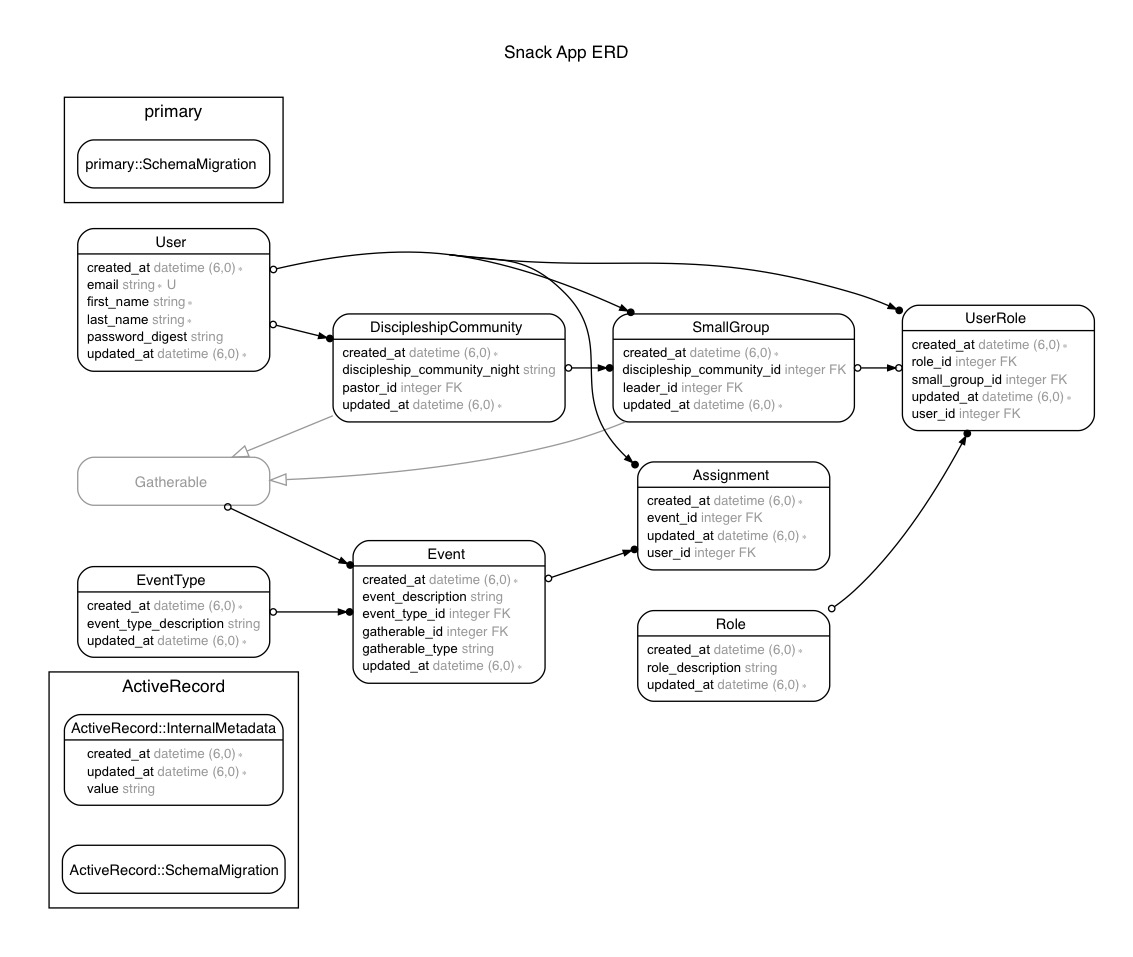
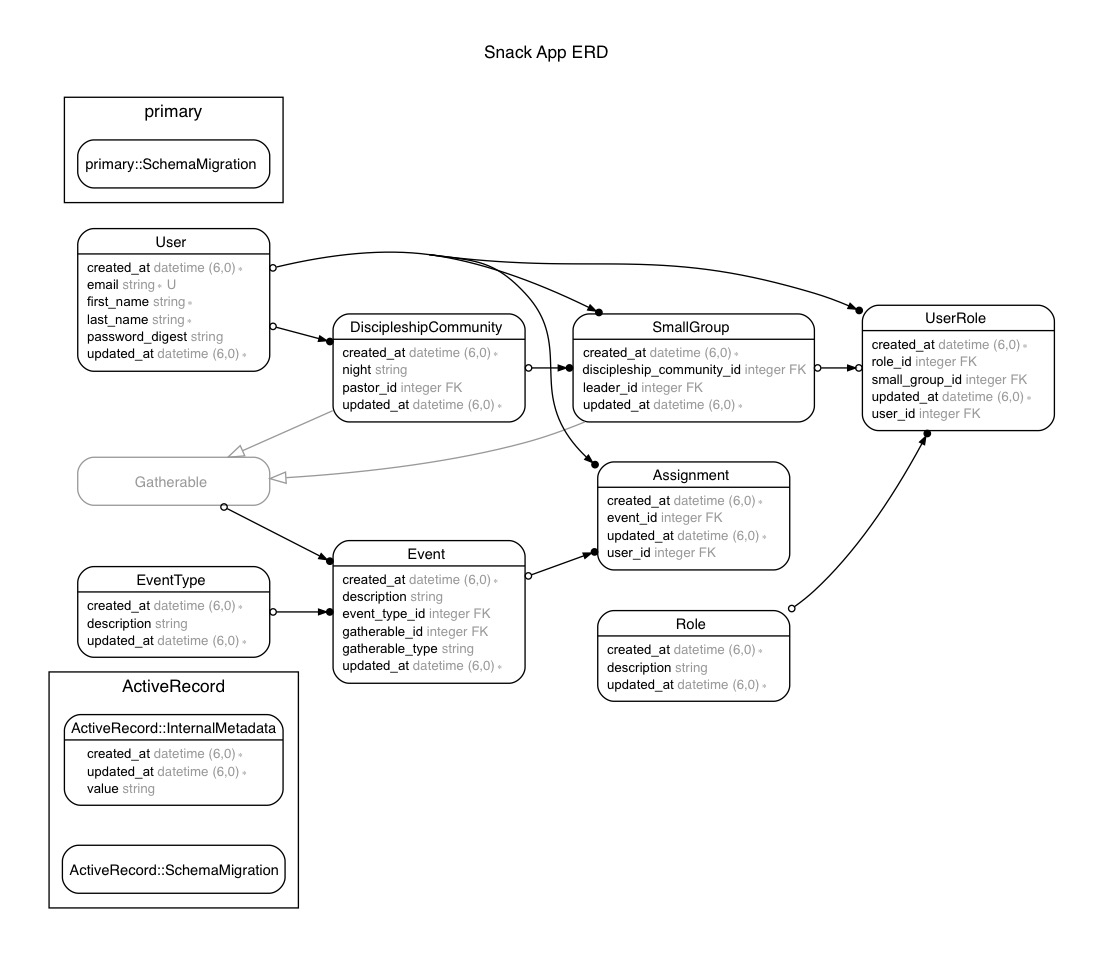
renamed db columns to reduce redundancy
- removed table name from columns
- added ID to index pages lists

diff --git a/db/schema.rb b/db/schema.rb
@@ -10,7 +10,7 @@
 #
 # It's strongly recommended that you check this file into your version control system.
 
-ActiveRecord::Schema.define(version: 2019_11_08_042018) do
+ActiveRecord::Schema.define(version: 2019_11_10_045139) do
 
   # These are extensions that must be enabled in order to support this database
   enable_extension "plpgsql"
@@ -26,31 +26,31 @@ ActiveRecord::Schema.define(version: 2019_11_08_042018) do
 
   create_table "discipleship_communities", force: :cascade do |t|
     t.integer "pastor_id"
-    t.string "discipleship_community_night"
+    t.string "night"
     t.datetime "created_at", precision: 6, null: false
     t.datetime "updated_at", precision: 6, null: false
     t.index ["pastor_id"], name: "index_discipleship_communities_on_pastor_id"
   end
 
   create_table "event_types", force: :cascade do |t|
-    t.string "event_type_description"
+    t.string "description"
     t.datetime "created_at", precision: 6, null: false
     t.datetime "updated_at", precision: 6, null: false
   end
 
   create_table "events", force: :cascade do |t|
     t.integer "event_type_id"
-    t.string "event_description"
+    t.string "description"
     t.integer "gatherable_id"
     t.string "gatherable_type"
     t.datetime "created_at", precision: 6, null: false
     t.datetime "updated_at", precision: 6, null: false
-    t.index ["event_description"], name: "index_events_on_event_description"
+    t.index ["description"], name: "index_events_on_description"
     t.index ["event_type_id"], name: "index_events_on_event_type_id"
   end
 
   create_table "roles", force: :cascade do |t|
-    t.string "role_description"
+    t.string "description"
     t.datetime "created_at", precision: 6, null: false
     t.datetime "updated_at", precision: 6, null: false
   end

diff --git a/db/migrate/20191110045139_change_column_name.rb b/db/migrate/20191110045139_change_column_name.rb
@@ -1,0 +1,8 @@
+class ChangeColumnName < ActiveRecord::Migration[6.0]
+  def change
+    rename_column :discipleship_communities, :discipleship_community_night, :night
+    rename_column :event_types, :event_type_description, :description
+    rename_column :events, :event_description, :description
+    rename_column :roles, :role_description, :description
+  end
+end
